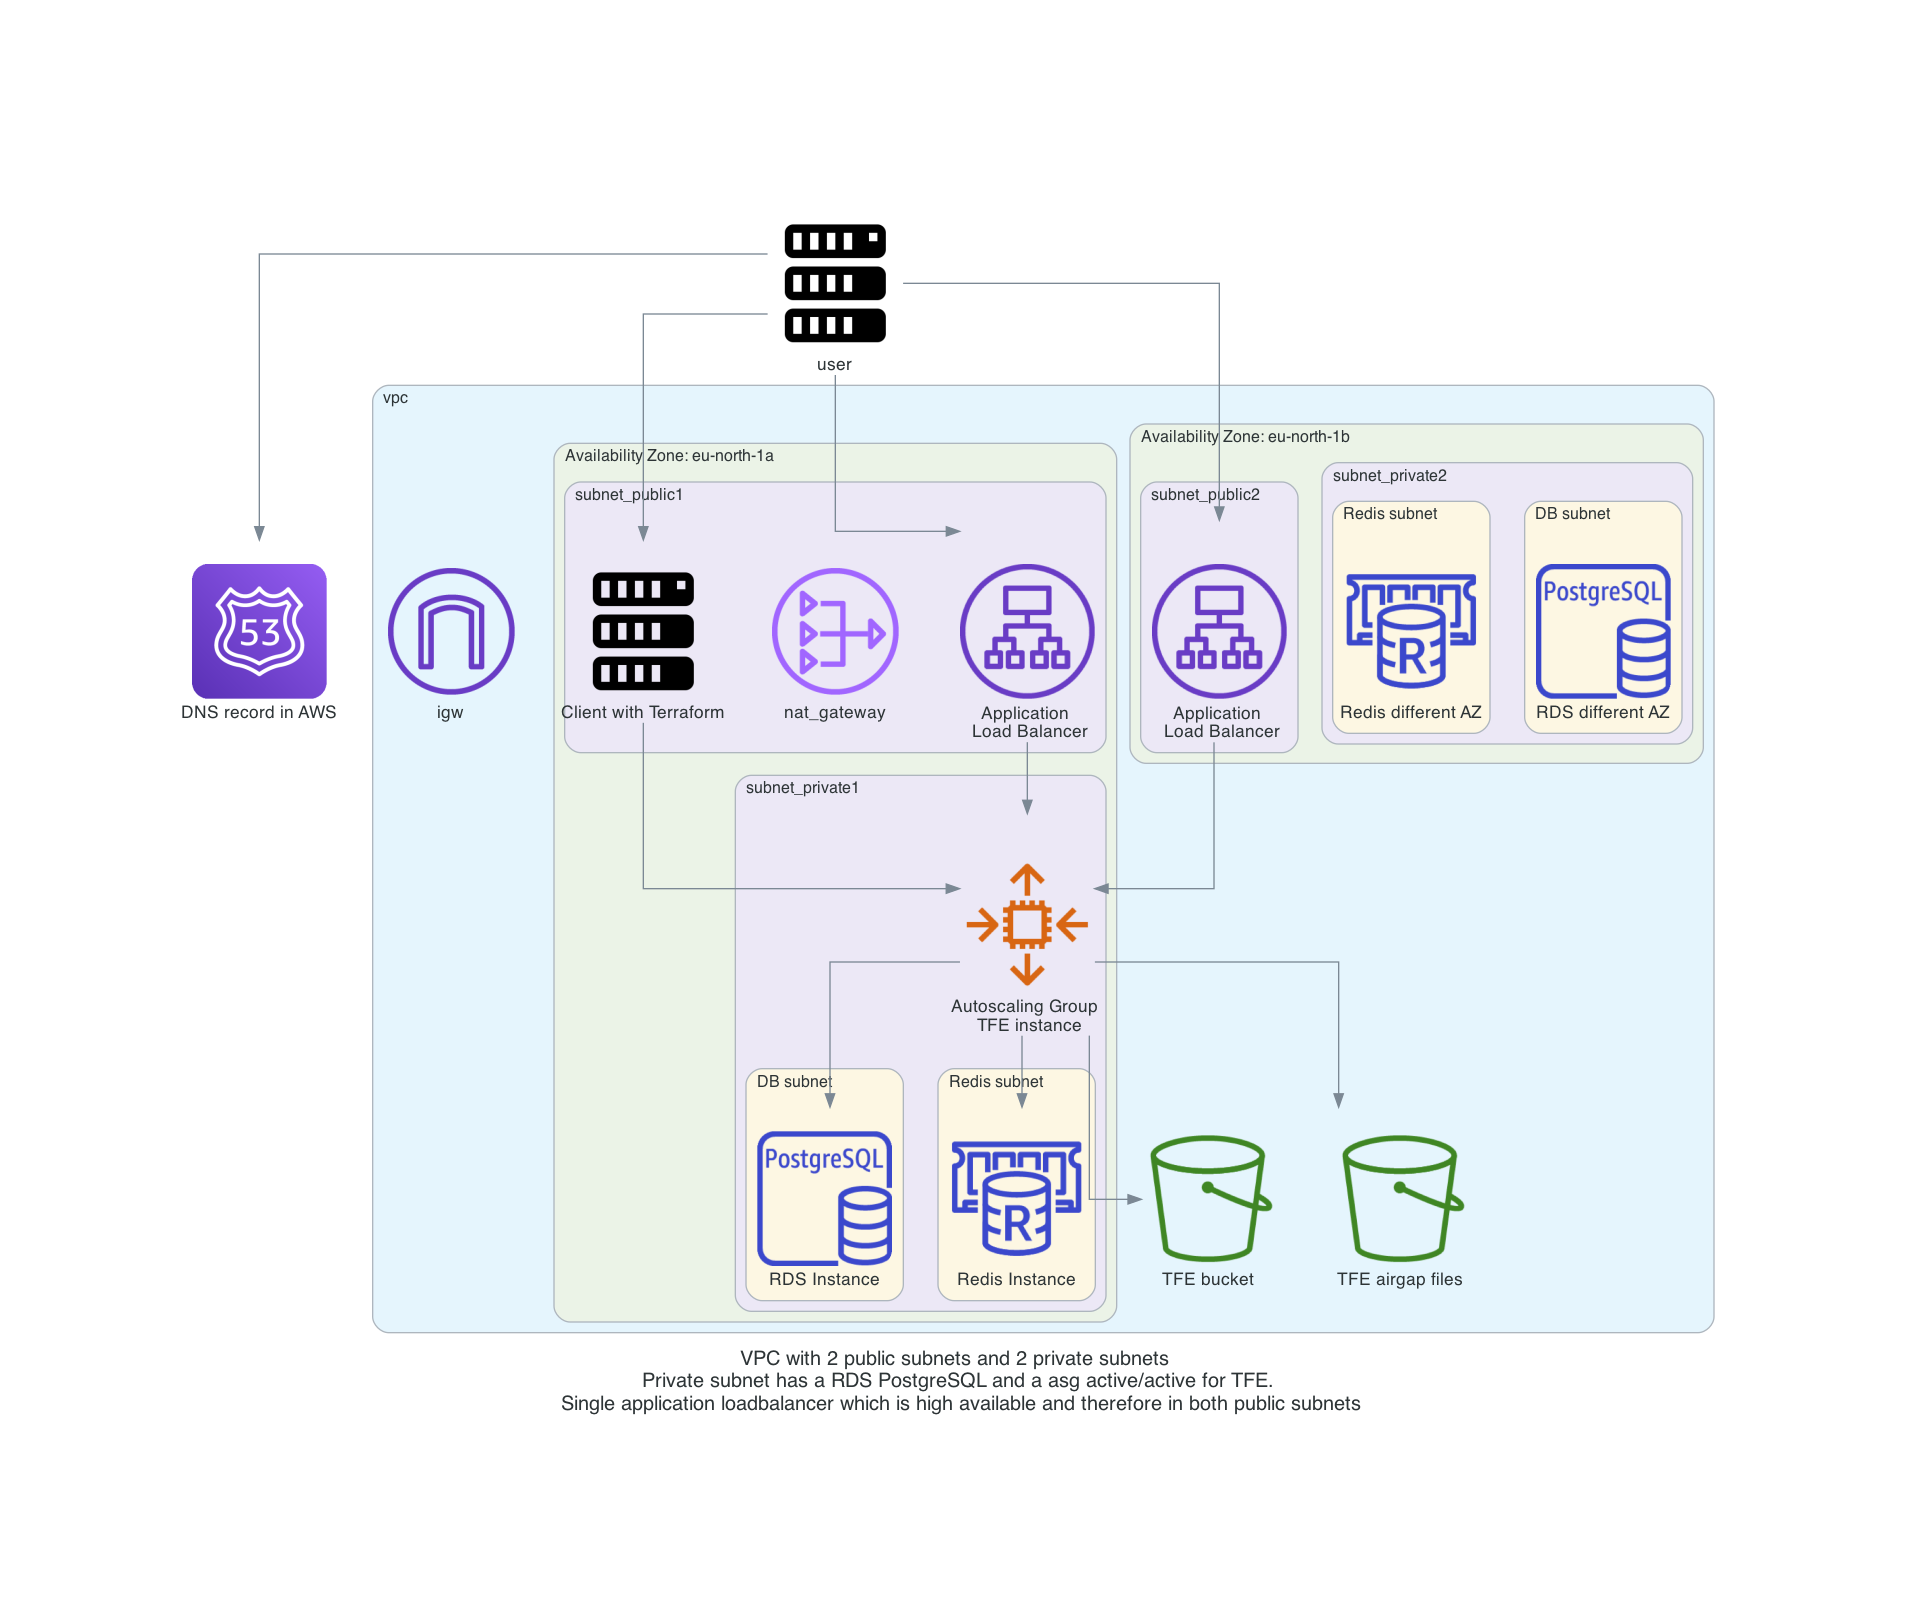
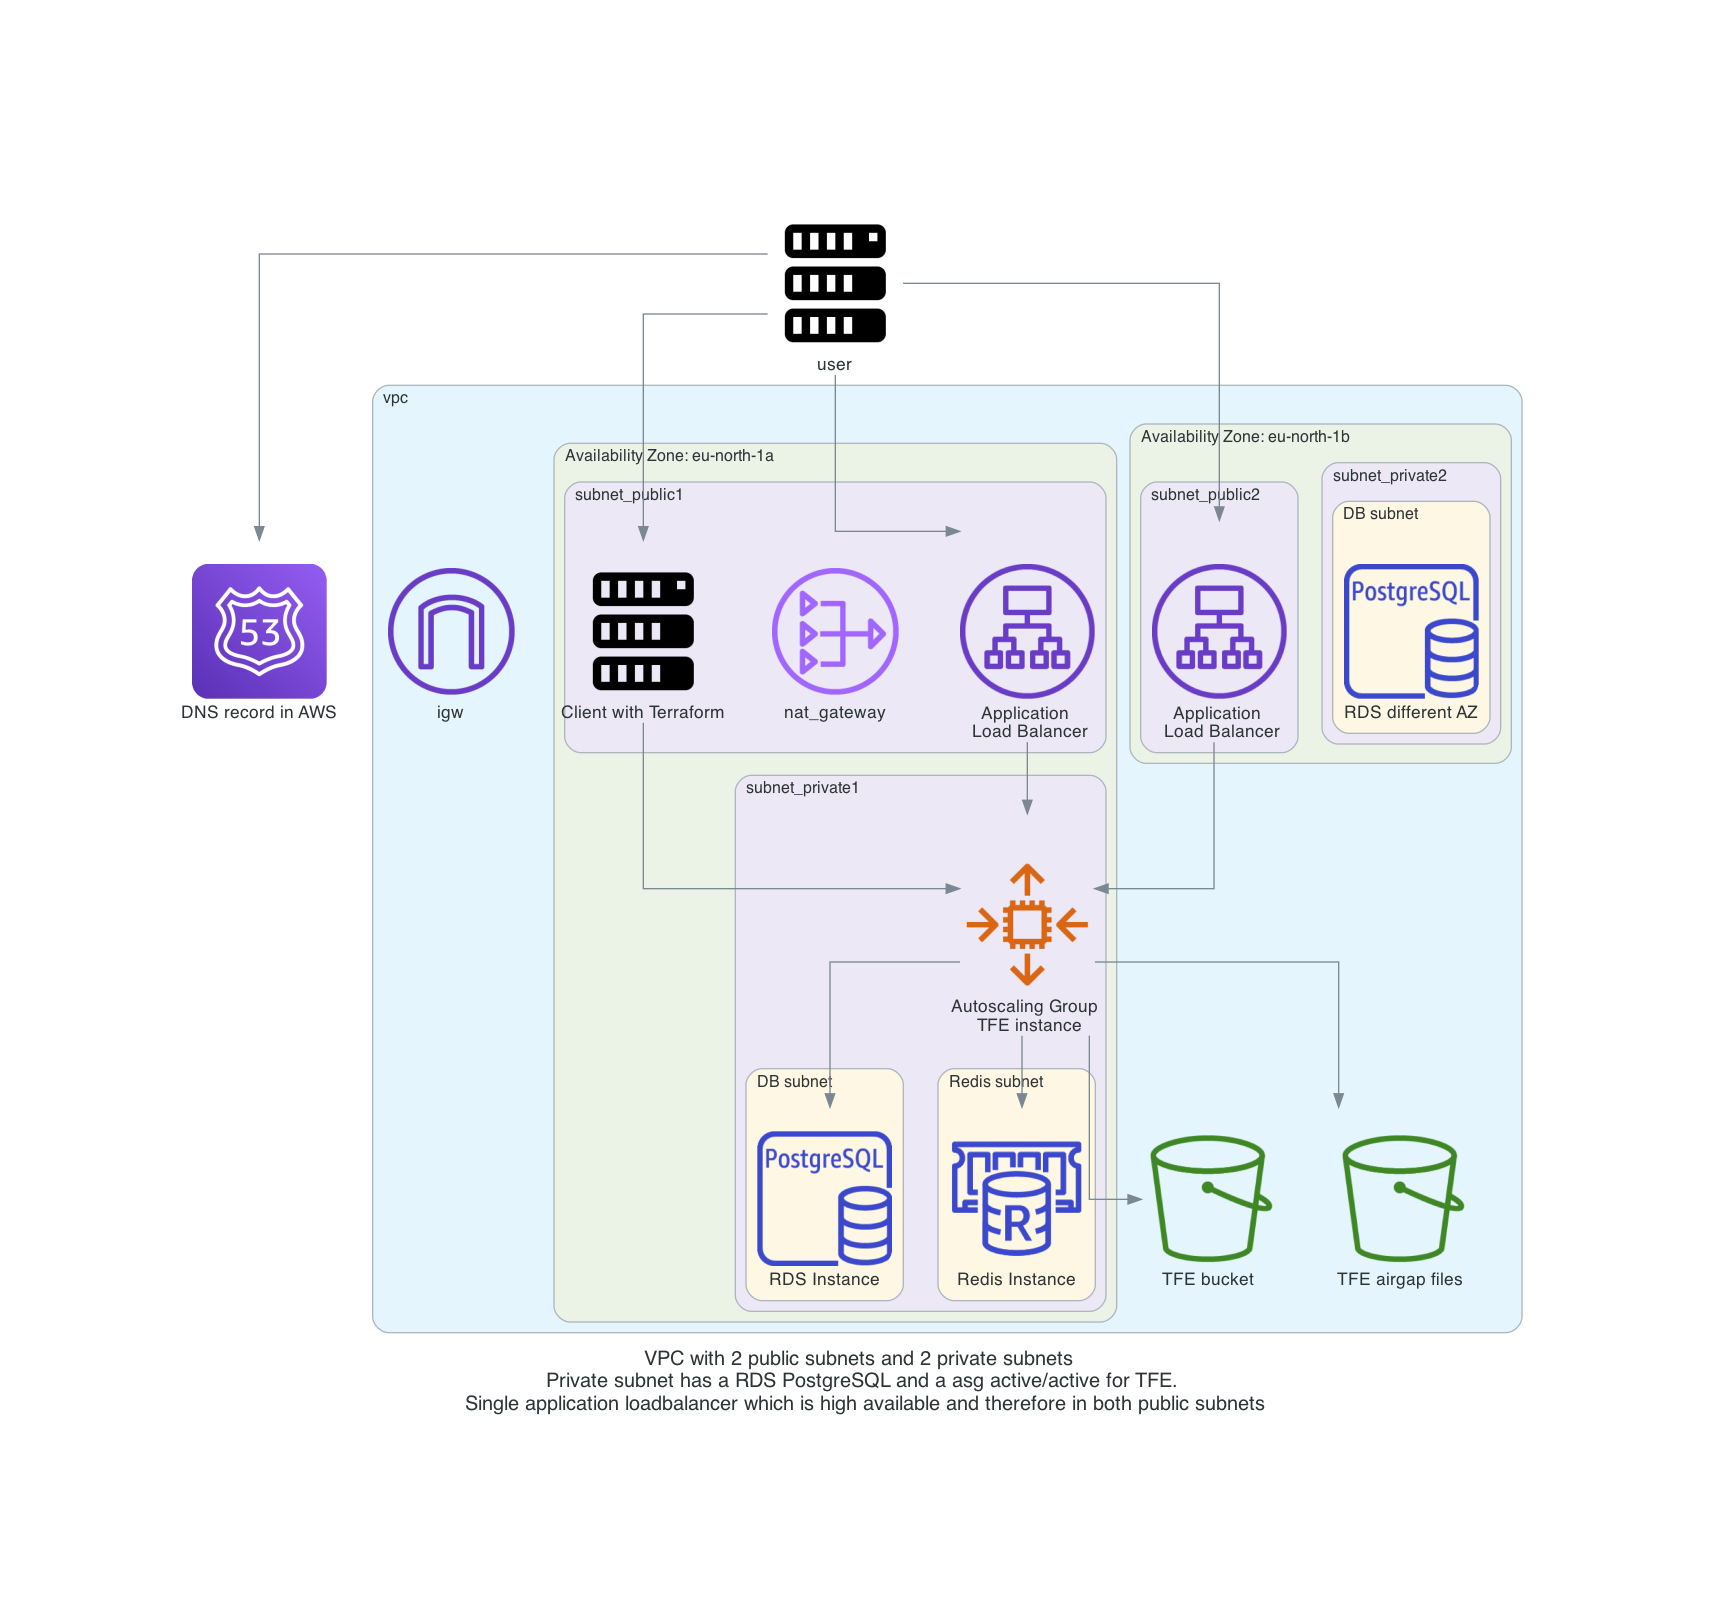
diagram changes

Changed region(s): [[0.0922, 0.2169, 0.9217, 0.8984], [0.3994, 0.1239, 0.5223, 0.2169], [0.1229, 0.3098, 0.1536, 0.3408]]

diff --git a/diagram/diagram_tfe_active_mode.py b/diagram/diagram_tfe_active_mode.py
@@ -35,8 +35,8 @@ with Diagram(
             with Cluster("subnet_private2"):
                 with Cluster("DB subnet"):
                             postgresql2 = RDSPostgresqlInstance("RDS different AZ")
-                with Cluster("Redis subnet"):
-                        redis2 = ElasticacheForRedis("Redis different AZ")                
+                # with Cluster("Redis subnet"):
+                #         redis2 = ElasticacheForRedis("Redis different AZ")                
             with Cluster("subnet_public2"):
                 loadbalancer2 = ElbApplicationLoadBalancer("Application \n Load Balancer")
                         # Subcluster
